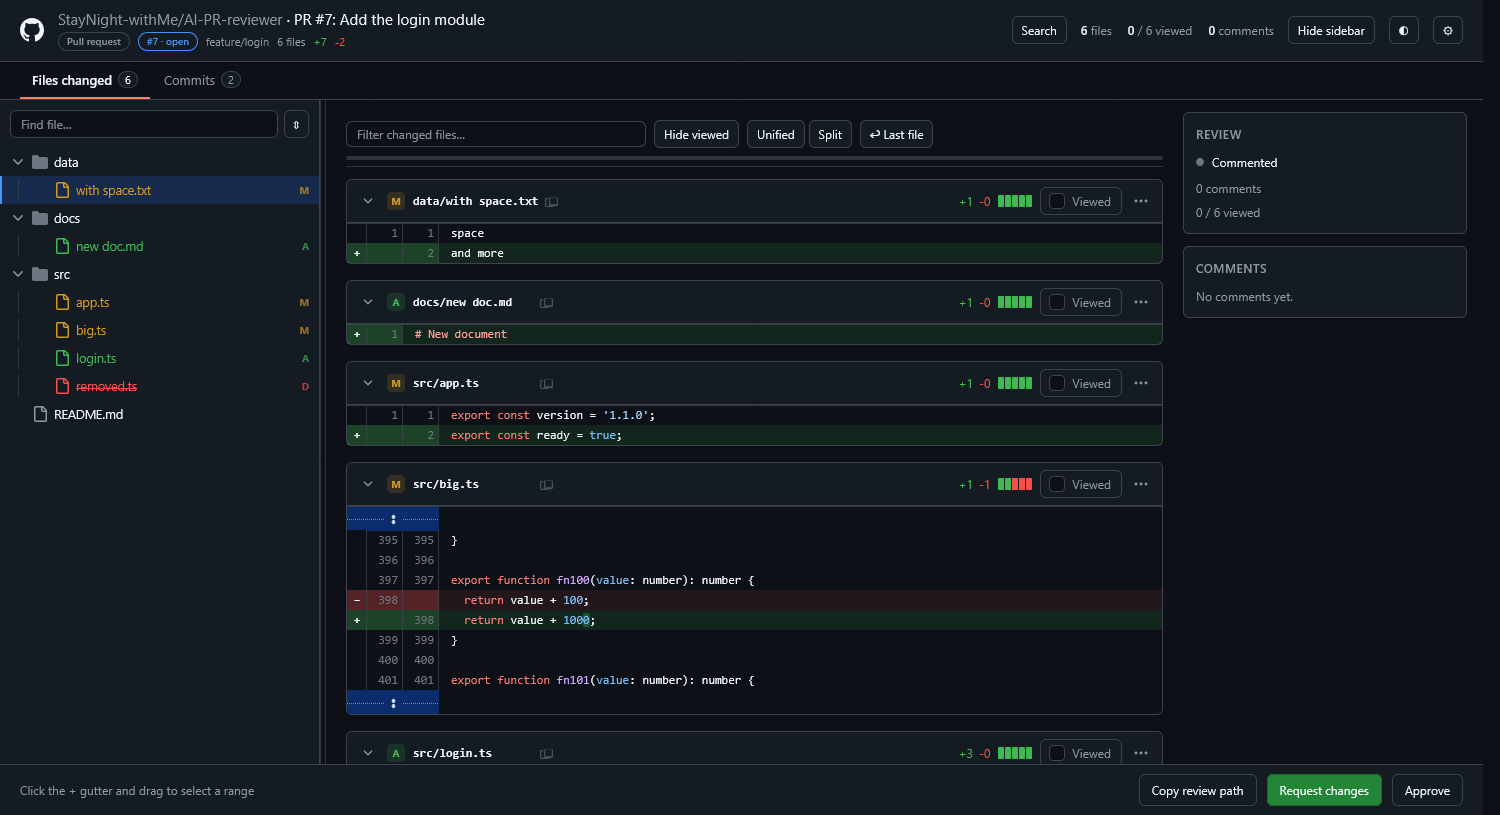
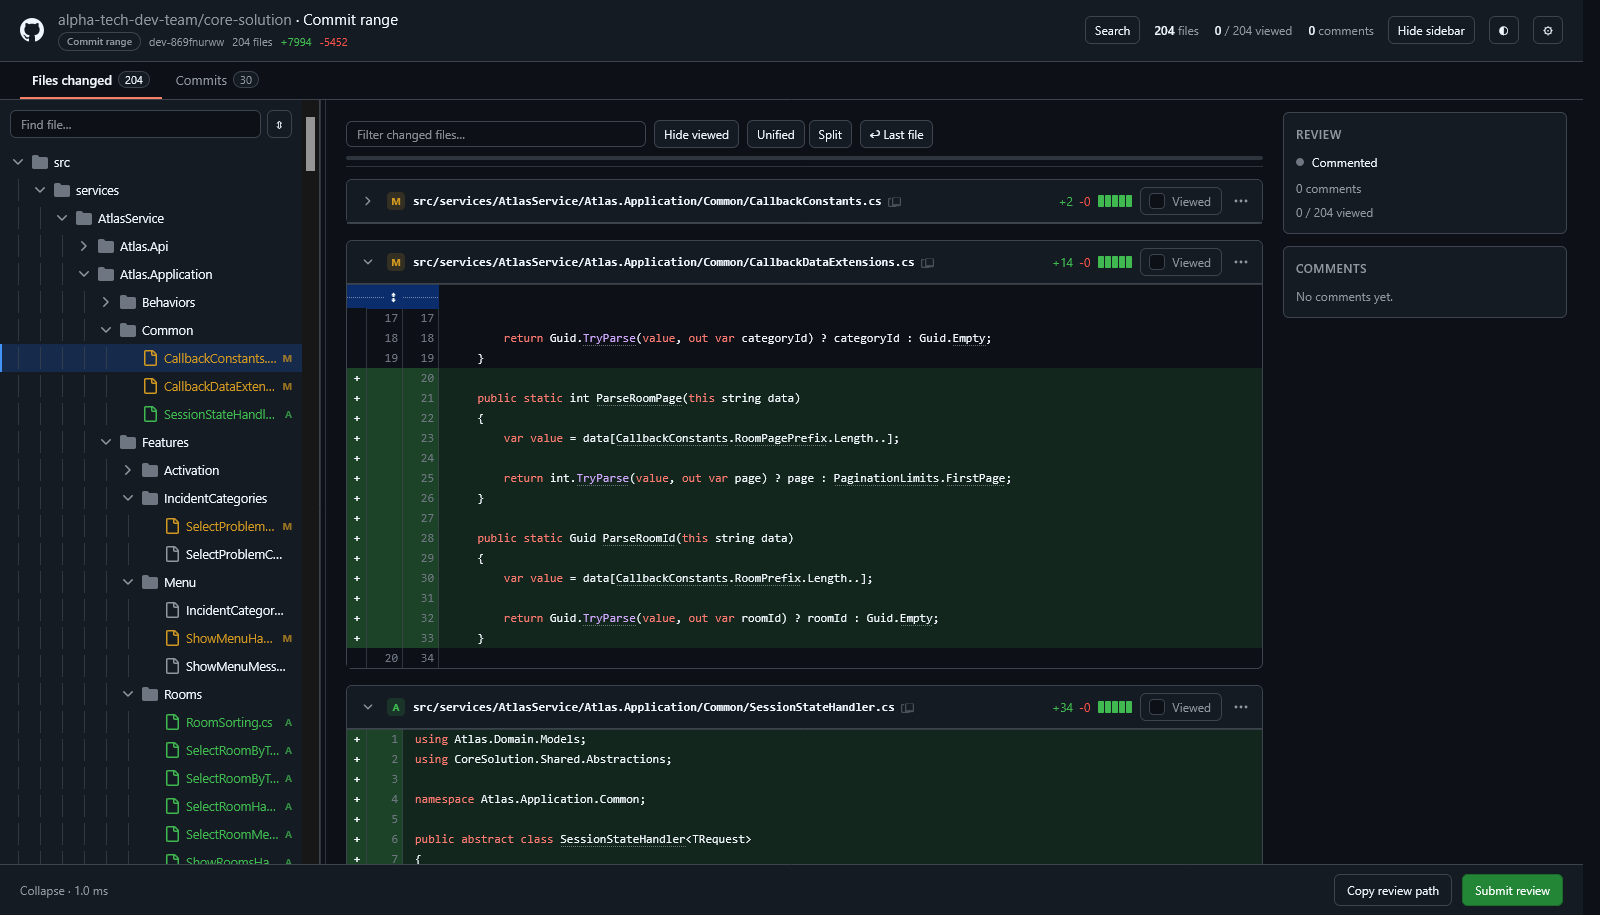
docs: document the submit dialog and the 1.1.0 changes

diff --git a/docs/README.zh.md b/docs/README.zh.md
@@ -4,7 +4,7 @@
 
 用真正的界面来审查代码：一个本地页面，外观和 GitHub Pull Request 一样。你在这里写批注，批注会直接送到 AI 助手的对话里。
 
-受够在终端里读 `git diff`、再用嘴念修改意见了吗？打开页面，拖动鼠标选中行，写下批注，粘贴截图，然后按 **Request changes**。AI 会接手你的批注并开始改代码。在它工作的时候，你不需要在脑子里记着"还有哪里要改"。
+受够在终端里读 `git diff`、再用嘴念修改意见了吗？打开页面，拖动鼠标选中行，写下批注，粘贴截图，然后按 **Submit review**。AI 会接手你的批注并开始改代码。在它工作的时候，你不需要在脑子里记着"还有哪里要改"。
 
 ![审查页面](screenshot-review.png)
 
@@ -19,7 +19,18 @@
 - 用 `Ctrl+V` 把截图直接贴进批注；
 - 点击名字跳到定义，和 IDE 一样；
 - **Viewed** 标记文件，大分支里不会走丢；
-- 按 **Request changes**，审查交给 AI，它开始修改。
+- 按 **Submit review**，选 **Request changes** 或 **Approve**，审查交给 AI。
+
+## 怎么提交审查
+
+一个按钮打开提交对话框：选结论，写一句备注，再决定要不要交给助手。
+
+| 结论 | 助手做什么 |
+| --- | --- |
+| **Request changes** | 按备注和批注去改 |
+| **Approve** | 读备注，确认工作已通过，不动代码 |
+
+通过也能带备注，所以「整体可以，但这个变量以后改个名」能传达到助手，而不会被当成"要重写代码"。取消勾选 **Send to the AI** 就只保存 `review.json` / `review.md`。
 
 ## 可以审查什么
 
@@ -68,9 +79,9 @@ npm run review -- . --open
 
 这里有两块互相独立的部分，只有第二块和具体的助手有关。
 
-**审查页面适用于任何助手。** 页面是一个本地 HTTP 服务器，由 MCP 服务器、`pr-review` CLI 或任意编辑器集成启动。提交时总会把 `review.json` 和 `review.md` 写到产物目录里，所以 Claude Code、Cursor、Gemini CLI、Copilot、Codex 或者普通终端拿到的结果都一样：助手读取审查文件，照着改。在提交对话框里选"只给我审查路径"，再把这个文件交给助手。
+**审查页面适用于任何助手。** 页面是一个本地 HTTP 服务器，由 MCP 服务器、`pr-review` CLI 或任意编辑器集成启动。提交时总会把 `review.json` 和 `review.md` 写到产物目录里，所以 Claude Code、Cursor、Gemini CLI、Copilot、Codex 或者普通终端拿到的结果都一样：助手读取审查文件，照着改。在提交对话框里取消勾选 **Send to the AI**，再把这个文件交给助手。
 
-**自动发送到对话只有 OpenCode 支持。** 按 **Request changes**，再选 **Send to the AI**，审查会直接进入打开的那个对话，不用复制粘贴。它通过 OpenCode 的 API 和打开页面时的会话 ID 来工作。其他助手没有等价的会话 API，所以在它们那里提交会保存文件并提示 "Review saved. Auto-fix not started"——审查不会丢，只是不会自动开始那一轮。
+**自动发送到对话只有 OpenCode 支持。** 按 **Submit review**，把审查发给助手，审查会直接进入打开的那个对话，不用复制粘贴。它通过 OpenCode 的 API 和打开页面时的会话 ID 来工作。其他助手没有等价的会话 API，所以在它们那里提交会保存文件并提示 "Review saved. Auto-fix not started"——审查不会丢，只是不会自动开始那一轮。
 
 | | 页面、批注、产物 | 自动发送到对话 |
 | --- | --- | --- |

diff --git a/CHANGELOG.md b/CHANGELOG.md
@@ -2,6 +2,30 @@
 Все заметные изменения проекта собраны здесь.
 Формат основан на [Keep a Changelog](https://keepachangelog.com/ru/1.1.0/),
 версии — по [Semantic Versioning](https://semver.org/lang/ru/).
+## [1.1.0] — 2026-11-18
+Отправка ревью одним окном, выбор ветки и починка подсветки.
+### Добавлено
+- Одна кнопка **Submit review** вместо двух: в окне выбирается вердикт
+  — **Request changes** или **Approve** — и пишется заметка.
+- **Approve** тоже уходит агенту: он получает сообщение, что работа принята,
+  и заметку, если она есть, но код по своей инициативе не переписывает.
+- Отправку можно выключить прямо в окне: ревью сохранится в
+  `review.json` / `review.md`, а ход в чате не стартует.
+- Выбор ветки на вкладке Commits: список коммитов любой ветки, а не только
+  той, что открыта на ревью.
+- `npm run bundle:hljs` пересобирает бандл подсветки из установленного
+  highlight.js, со списком языков в одном месте.
+### Исправлено
+- Подсветка больше не пропадает на файлах, где встречается имя вроде
+  `constructor` или `toString`: раньше такой файл оставался белым и не
+  догружался до конца.
+- Go, Java, Rust, Kotlin, Ruby, PHP и ещё несколько языков подсвечиваются,
+  а не показываются простым текстом.
+- Файл, добавленный в индекс и потом ещё раз изменённый, больше не попадает
+  в ревью дважды — из-за этого последняя строка выглядела задублированной.
+- «Expand all» раскрывает файл целиком и убирает синюю кнопку раскрытия.
+- Автоотправку нельзя случайно включить через API, если она выключена для
+  ревью: проверка теперь на сервере, а не только в браузере.
 ## [1.0.0] — 2026-11-18
 Первый стабильный релиз.
 ### Добавлено
@@ -35,4 +59,5 @@
 - Комментарий на неизменённом файле открывается, а не падает с ошибкой.
 - Заголовок файла закрепляется при прокрутке длинного файла.
 - Настройки больше не сбрасываются при смене страницы ревью.
+[1.1.0]: https://github.com/StayNight-withMe/AI-PR-reviewer/releases/tag/v1.1.0
 [1.0.0]: https://github.com/StayNight-withMe/AI-PR-reviewer/releases/tag/v1.0.0

diff --git a/docs/README.es.md b/docs/README.es.md
@@ -8,7 +8,7 @@ directamente al chat de un agente de IA.
 
 ¿Cansado de leer `git diff` en la terminal y dictar correcciones en voz alta?
 Abre la página, arrastra sobre las líneas, escribe comentarios, pega capturas y
-pulsa **Request changes**. El agente recoge tus notas y empieza a corregir el
+pulsa **Submit review**. El agente recoge tus notas y empieza a corregir el
 código. Mientras trabaja, no tienes que recordar "qué más falta por arreglar".
 
 ![Página de revisión](screenshot-review.png)
@@ -26,7 +26,22 @@ Esta herramienta levanta una página web normal en tu máquina:
 - pega una captura directamente en un comentario con `Ctrl+V`;
 - haz clic en un nombre para ir a su definición, como en un IDE;
 - **Viewed** marca archivos para no perderte en una rama grande;
-- pulsa **Request changes** — la revisión va al agente y empieza a corregir.
+- pulsa **Submit review**: elige **Request changes** o **Approve**, y la
+  revisión va al agente.
+
+## Cómo enviar una revisión
+
+Un botón abre el diálogo de envío: elige el veredicto, escribe una nota opcional y
+decide si se la mandas al agente.
+
+| Veredicto | Qué hace el agente |
+| --- | --- |
+| **Request changes** | corrige lo que dicen la nota y los comentarios |
+| **Approve** | lee la nota, confirma que el trabajo está aceptado y no toca el código |
+
+Una aprobación también lleva nota, así que «vale, pero renombra esa variable
+luego» llega al agente sin fingir que el código hay que reescribirlo. Desmarca
+**Send to the AI** para solo guardar `review.json` / `review.md`.
 
 ## Qué puedes revisar
 
@@ -82,11 +97,11 @@ HTTP local, lo levanta el servidor MCP, el CLI `pr-review` o cualquier integraci
 de editor. Al enviar, siempre se escriben `review.json` y `review.md` junto a los
 artefactos, así que Claude Code, Cursor, Gemini CLI, Copilot, Codex o una simple
 terminal obtienen lo mismo: el agente lee el archivo de revisión y corrige según
-él. En el diálogo de envío elige «solo la ruta de la revisión» y pásale ese
-archivo al agente.
+él. Desmarca **Send to the AI** en el diálogo de envío y pásale ese archivo al
+agente.
 
-**El envío automático al chat es solo de OpenCode.** Pulsar **Request changes** y
-luego **Send to the AI** entrega la revisión directamente en la conversación
+**El envío automático al chat es solo de OpenCode.** Pulsar **Submit review** y
+enviarla al agente la entrega directamente en la conversación
 abierta, sin copiar y pegar. Funciona llamando a la API de OpenCode con el
 identificador de la sesión desde la que se abrió la página. Otros asistentes no
 tienen una API de sesiones equivalente, así que en ellos el envío guarda los

diff --git a/README.md b/README.md
@@ -26,7 +26,22 @@ This tool serves an ordinary web page on your machine:
 - paste a screenshot right into a comment with `Ctrl+V`;
 - click a name to jump to its definition, like in an IDE;
 - **Viewed** marks files so you don't get lost in a large branch;
-- press **Request changes** — the review goes to the agent, which starts fixing.
+- press **Submit review** — pick **Request changes** or **Approve**, and the
+  review goes to the agent.
+
+## Submitting a review
+
+One button opens the submit dialog: choose a verdict, write an optional note,
+and decide whether to send it to the agent.
+
+| Verdict | What the agent does |
+| --- | --- |
+| **Request changes** | fixes what the notes and comments say |
+| **Approve** | reads the note, confirms the work is accepted, and leaves the code alone |
+
+An approval carries a note too, so "LGTM, but rename that variable later" reaches
+the agent without pretending the code needs rewriting. Untick **Send to the AI**
+to only save `review.json` / `review.md`.
 
 ## What you can review
 
@@ -82,11 +97,11 @@ is started by the MCP server, by the `pr-review` CLI, or by any editor
 integration. Saving a review always writes `review.json` and `review.md` next to
 the artifacts — so Claude Code, Cursor, Gemini CLI, Copilot, Codex or a plain
 terminal all get the same result: the agent reads the review file and fixes
-accordingly. Use the "only give me the review path" option in the submit dialog
-and point the agent at that file.
+accordingly. Untick **Send to the AI** in the submit dialog and point the agent
+at that file.
 
-**Auto-dispatch is OpenCode-only.** Pressing **Request changes**, then **Send to
-the AI**, hands the review straight into the running chat, with no copy-paste.
+**Auto-dispatch is OpenCode-only.** Pressing **Submit review**, then sending it
+to the AI, hands the review straight into the running chat, with no copy-paste.
 That works by calling the OpenCode API with the session id of the conversation
 that opened the page. Other assistants have no equivalent session API, so for
 them the submit saves the files and reports "Review saved. Auto-fix not
